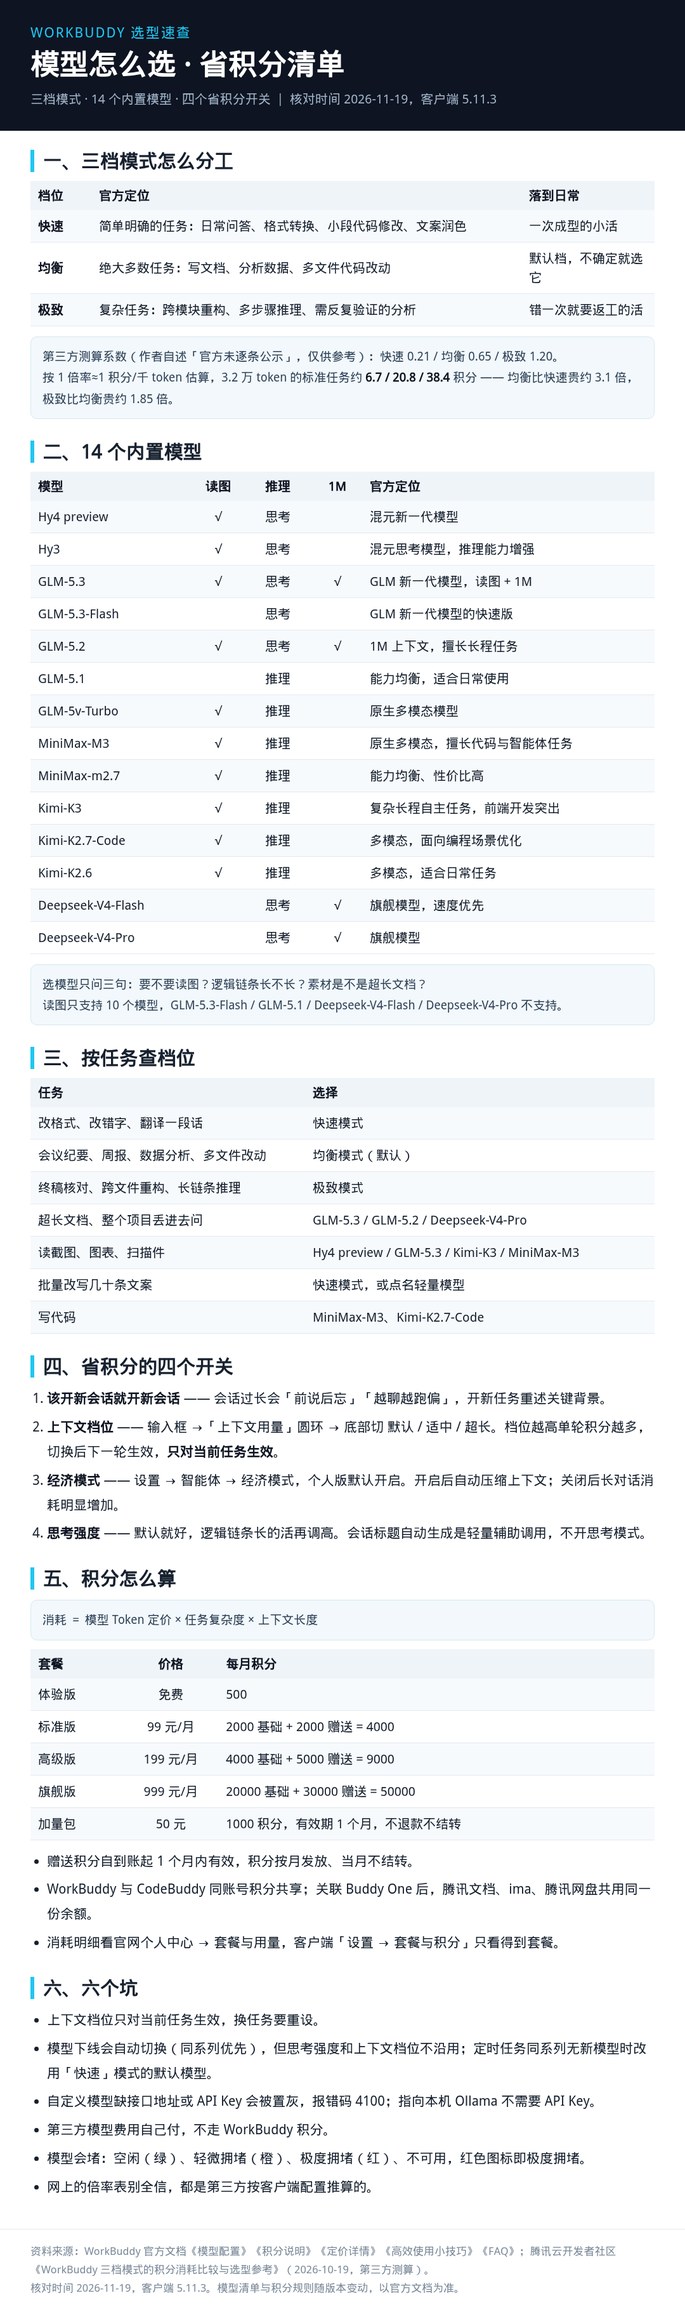
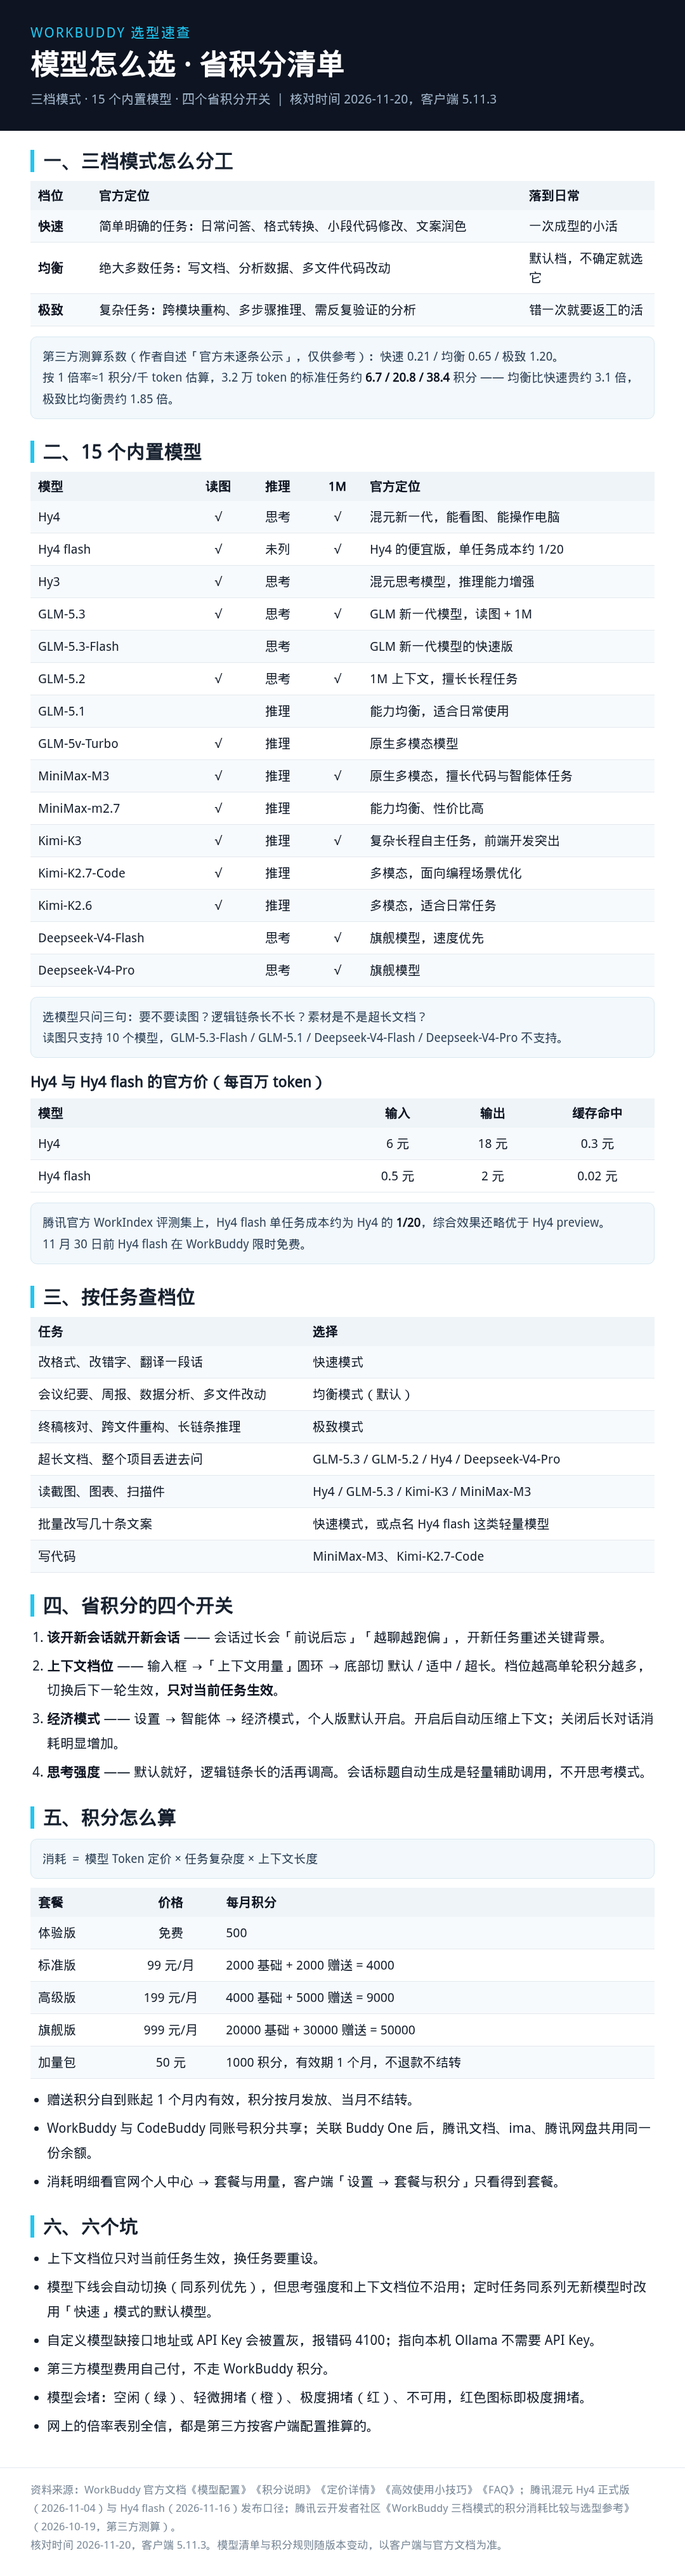
WorkBuddy 选型文章：模型部分跟进最新资料（Hy4 正式版、Hy4 flash、各家评测）

Changed region(s): [[0.0, 0.0, 1.0, 0.9986], [0.7639, 0.9674, 0.9167, 0.9986], [0.825, 0.4057, 0.8861, 0.4369]]

diff --git a/drafts/workbuddy-model-selection/sources.md b/drafts/workbuddy-model-selection/sources.md
@@ -1,6 +1,6 @@
 # 素材来源清单 · WorkBuddy 模型选择（草稿目录 `drafts/workbuddy-model-selection/`）
 
-- 抓取日期：2026-11-19
+- 抓取日期：2026-11-19（首轮）／2026-11-20（复核，模型部分更新）
 - 对应客户端版本：WorkBuddy 5.11.3（2026-11-15 发布，见官方更新日志）
 - 分级口径：**A** 官方文档（可作事实引用）｜**B** 官方产品界面截图（可作配图，注明出处）｜**C** 第三方测算（只能标为第三方观点，不能当官方数据）
 - 使用纪律：所有数字必须能落到本文档某一行；官方未公示的数据（如各模型倍率）一律标注「第三方测算，官方未逐条公示」。
@@ -20,6 +20,7 @@
   - 经济模式：原模型面板里的「Max 模式」开关已移到 **设置 → 智能体 → 经济模式**（个人版默认开启）。开启后系统在合适时机自动压缩上下文、降低积分消耗；关闭后全程保留完整上下文，长对话消耗明显增加。
   - 模型下线后的自动切换：优先同系列新模型（如 Kimi-K3 → Kimi 系列对应新模型），没有则用系统默认模型；切到同系列新模型时思考强度与上下文窗口不沿用旧模型；定时任务每次运行前先切换再执行并同步更新任务配置；本地自定义模型不会被自动替换；切换后仍失败则该次按失败处理，不重复执行同一提示词。
   - 内置模型（个人版当前，14 个）：Hy4 preview、Hy3、GLM-5.3、GLM-5.3-Flash、GLM-5.2、GLM-5.1、GLM-5v-Turbo、MiniMax-M3、MiniMax-m2.7、Kimi-K3、Kimi-K2.7-Code、Kimi-K2.6、Deepseek-V4-Flash、Deepseek-V4-Pro。官方标注：GLM-5.3 支持 1M 上下文窗口；DeepSeek V4 系列支持 1M；GLM-5.2 1M 上下文、擅长长程任务；Deepseek-V4-Flash「速度优先」。
+  - **文档滞后（2026-11-20 复核确认）**：文档表里仍写「Hy4 preview」且只有 14 个模型，而客户端里已经是 Hy4 正式版并多出 Hy4 flash（用户 2026-11-20 实机观察）→ 正文必须写「以你客户端里看到的为准」。
   - 自定义模型：配置（含 API Key）只存在本地 `workbuddy/models.json`，不上传云端；接入方式＝提供商接入（腾讯云 Token Plan / Coding Plan / 自定义 API）、本地 Ollama（默认监听 11434，兼容 OpenAI 协议）、自定义；配置不完整的自定义模型在选择器中置灰不可选，报错码 4100；自定义模型产生的费用由用户直接付给第三方。
   - 企业管理员可在后台禁用模型，被禁模型在客户端隐藏或置灰（含 auto）。
 - 原文可直接引用：
@@ -81,6 +82,27 @@
 ### A11 腾讯云 Token Plan（延伸阅读，未抓正文）
 - https://cloud.tencent.com/document/product/1823/130657 —— 面向个人与企业的订阅套餐，兼容混元、MiniMax、Kimi、GLM 等模型；个人版 API Key 获取指引 https://cloud.tencent.com/document/product/1823/130119
 
+### A12 腾讯混元 Hy4 正式版发布口径（2026-11-04）
+- 报道：央广网 https://tech.cnr.cn/techgd/20261104/t20261104_527862108.shtml （页面 GB18030 编码，抓取需 `raw.decode("gb18030")`，正文存 /tmp/wb/docs/hy4_cnr.txt）
+- 关键事实：相比 preview 扩展数据与训练规模，首次引入视觉理解能力、首次支持 Computer Use；WorkBuddy 办公场景评测平均 83.18 分、任务通过率 96.15%、12 个场景里 9 个排在国产模型首位；腾讯金融科技 FiT 专家众测（213 位专家、153 位来自外部机构、七成 5 年以上经验、579 个真实金融任务）综合分 Hy4 3.04、Kimi K3.1 Pro 2.68、GLM-5.3 2.68、DeepSeek-V4.1-Flash-1017 2.97；讯兔 IRAB 较 preview 提升 12.03 个百分点；幻觉率 12.95% → 7.2%，猜测导致的错误率 23.1% → 5.6%；GameDev / GameLogic 较 preview 提升 19.1% / 9.8%；定价不变＝输入 6 元 / 输出 18 元 / 缓存命中 0.3 元每百万 token；Hy3 系列参数 < 300B，Hy4 系列 770B；发布节奏＝先 Preview 再正式版，每两个月一个大版本；官方自认与顶尖闭源模型仍有较大差距。
+- 注意：正文引「9 个排国内第一」在公众号会被红线词「第一」拦下，必须写成「排在国产模型首位」（或「拿下榜首」）。
+
+### A13 腾讯混元 Hy4 flash 发布口径（2026-11-16）
+- 报道：新浪科技 https://finance.sina.com.cn/tob/2026-11-16/doc-iniyxcia5712243.shtml
+- 关键事实：总参 224B（含 64B Engram）、激活 12B，多模态 + 1M 上下文；价格输入 0.5 元 / 输出 2 元 / 缓存命中 0.02 元每百万 token；KV cache 约为 Hy3 的 1/24、Hy4 的 1/6；解码速度 > 150 tps；自蒸馏 Hy4 + RL 让端到端输出长度降 50%；内部评测集 WorkIndex（PPT 制作与修改、文档编辑、表格修复、音视频处理、视觉理解）上单任务成本约为 Hy4 preview 的 1/13、Hy4 的 1/20、DeepSeek-V4.1-Flash-1027 的 1/8，综合效果略优于 Hy4 preview；已上线 TokenHub / WorkBuddy / 元宝 / 企业微信 / QQ / ima / Marvis；11 月 30 日前 WorkBuddy 限时免费，TokenHub API 到 2026-12-31 五折。
+
+### A14 智谱 GLM-5.3 发布口径（2026-08-14）
+- 报道：快科技 http://m.mydrivers.com/newsview/1143745.html
+- 关键事实：与 GLM-5.2 同基座、7400 多亿参数（未到万亿）；Terminal-Bench 3.0 由 4.6 升至 28.3；DeepSWE v1.1 由 46.2 升至 66.9；Agents' Last Exam 由 23.8 升至 28.5；GDPval-AA v2 得分 1769；自研 Z.ai Code Bench 高档准确率 31.4%，高于 Claude Opus 4.8 最高档的 29.5%，且每任务平均输出约 5 万 token，Opus 4.8 约 12 万。
+
+### A15 MiniMax M3 官方模型页
+- https://www.minimax.cn/models/text/m3
+- 关键事实：MSA 稀疏注意力架构，API 最高 1M 上下文（保障至少 512K 可用），原生多模态；BrowseComp 智能体评测 83.5 分，Opus 4.7 为 79.3；官方案例：连续 12 小时自主复现一篇 ICLR 杰出论文（18 次 commit、23 张图表）；24 小时优化 CUDA 算子，147 次迭代，硬件峰值利用率 7.6% → 71.3%，9.4 倍加速；PostTrainBench 37.1（第三，次于 Opus 4.7 的 42.4、GPT-5.5 的 39.3）。
+
+### A16 DeepSeek V4 官方公告（2026-04-24）
+- https://api-docs.deepseek.com/zh-cn/news/news260424.md
+- 关键事实：分 Pro 与 Flash，均 1M 上下文，API 名 deepseek-v4-pro / deepseek-v4-flash；Pro 在 Agentic Coding 达开源最佳，内部实测体验优于 Sonnet 4.5，交付质量接近 Opus 4.6 非思考模式但仍有差距；世界知识大幅领先开源、仅稍逊 Gemini-Pro-3.1；Flash 知识稍逊但推理接近，简单 Agent 任务与 Pro 旗鼓相当；DSA 稀疏注意力 + token 维度压缩；支持 reasoning_effort（high/max）；旧模型名 deepseek-chat / deepseek-reasoner 于 2026-07-24 停用；权重与技术报告已开源。
+
 ---
 
 ## B 级 · 官方界面截图（配图候选，已下载到 `assets/`）
@@ -118,6 +140,11 @@
   - 结论：默认停均衡；倍率 0.20 以下的模型直选更省；省钱优先级＝新任务开新窗口 ＞ 保持 Max 模式关闭（对应现在的经济模式）＞ 压缩上下文 ＞ 最后才降档。
 - **风险提示**：文中模型清单是 2026-10-19 的快照（含 Space-Bunny、GLM-4.6、GLM-4.6V、DeepSeek-V4.1-Flash、MiniMax-M2.5、Kimi-K2.5、GLM-5.0-Turbo、Kimi-K2.8-Preview 等），与 A1 当前官方表不一致，正文若引用需说明时间差。
 - **版权提示**：该文末尾有「原创声明：未经许可，不得转载」，因此**只引用其中的数据与结论并注明出处，不下载、不转载它的配图**。
+
+### C2 钛媒体对 Kimi K3 的实测（媒体报道实测，属第三方口径）
+- URL：https://caifuhao.eastmoney.com/news/20260718153736384247060 （2026-07-18）
+- 关键事实：Kimi K3 为 2.8 万亿参数、原生视觉、1M 上下文（会员档位限制：49 元档不支持、99 元档 256K、199 元档起完整 1M）；Arena Code Arena 盲测 1679 分居首，Fable 5 1631、GPT-5.6 Sol 1618；API 输入 20 元 / 输出 100 元每百万 token（较 K2.6 输入涨 3 倍多、输出近 4 倍）；官方承认三个局限；实测评价：3D 与视觉生成最突出、前端 UI 设计水准接近 Fable 5、编码强但未超最强闭源、速度是最大短板，同一场景生成时间约为 GPT-5.6 Sol 的 2–3 倍，剪一个 30 秒宣传片花了近两小时；官方称全球首个开源 3 万亿级模型。
+- **引用要求**：性能评测数是厂商或媒体口径，正文写「某家评测里…」「媒体实测…」并标时间，不要写成 WorkBuddy 内的实测结论；红线下「排第一」要改写为「拿下榜首」。
 
 ---
 

diff --git a/drafts/workbuddy-model-selection/checklist.md b/drafts/workbuddy-model-selection/checklist.md
@@ -1,7 +1,7 @@
 # WorkBuddy 选型速查清单
 
 > 对应正文：WorkBuddy 模型怎么选？来看这一份省积分指南
-> 资料核对时间：2026 年 11 月 19 日，对应客户端 5.11.3；以官方文档为准。
+> 资料核对时间：2026 年 11 月 20 日，对应客户端 5.11.3；以官方文档为准。
 
 ## 一、三档模式
 
@@ -13,26 +13,36 @@
 
 第三方测算系数（作者自述「官方未逐条公示」，仅作参考）：快速 0.21 / 均衡 0.65 / 极致 1.20；按 1 倍率≈1 积分/千 token 估算，3.2 万 token 的标准任务约 6.7 / 20.8 / 38.4 积分 —— 均衡比快速贵约 3.1 倍，极致比均衡贵约 1.85 倍。
 
-## 二、14 个内置模型
+## 二、15 个内置模型
 
 | 模型 | 图片输入 | 推理标记 | 1M 上下文 | 官方定位 |
 | --- | --- | --- | --- | --- |
-| Hy4 preview | √ | 思考模式 | | 混元新一代模型 |
+| Hy4 | √ | 思考模式 | √ | 混元新一代，能看图、能操作电脑 |
+| Hy4 flash | √ | 官方文档未列 | √ | Hy4 的便宜版，单任务成本约 1/20 |
 | Hy3 | √ | 思考模式 | | 混元思考模型，增强的推理能力 |
 | GLM-5.3 | √ | 思考模式 | √ | GLM 新一代模型 |
 | GLM-5.3-Flash | | 思考模式 | | GLM 新一代模型的快速版本 |
 | GLM-5.2 | √ | 思考模式 | √ | 1M 上下文，擅长长程任务 |
 | GLM-5.1 | | 推理模型 | | 能力均衡，适合日常使用 |
 | GLM-5v-Turbo | √ | 推理模型 | | 原生多模态模型 |
-| MiniMax-M3 | √ | 推理模型 | | 原生多模态，擅长代码与智能体任务 |
+| MiniMax-M3 | √ | 推理模型 | √ | 原生多模态，擅长代码与智能体任务 |
 | MiniMax-m2.7 | √ | 推理模型 | | 能力均衡、性价比高 |
-| Kimi-K3 | √ | 推理模型 | | 复杂长程自主任务，前端开发突出 |
+| Kimi-K3 | √ | 推理模型 | √ | 复杂长程自主任务，前端开发突出 |
 | Kimi-K2.7-Code | √ | 推理模型 | | 多模态，面向编程场景优化 |
 | Kimi-K2.6 | √ | 推理模型 | | 多模态，适合日常任务 |
 | Deepseek-V4-Flash | | 思考模式 | √ | 旗舰模型，速度优先 |
 | Deepseek-V4-Pro | | 思考模式 | √ | 旗舰模型 |
 
 三个筛模型的提问：要不要读图？逻辑链条长不长？素材是不是超长文档？
+
+Hy4 正式版（2026-11-04）与 Hy4 flash（2026-11-16）的官方价（每百万 token）：
+
+| 模型 | 输入 | 输出 | 缓存命中 |
+| --- | --- | --- | --- |
+| Hy4 | 6 元 | 18 元 | 0.3 元 |
+| Hy4 flash | 0.5 元 | 2 元 | 0.02 元 |
+
+腾讯官方 WorkIndex 评测集上，Hy4 flash 单任务成本约为 Hy4 的 1/20，综合效果还略优于 Hy4 preview。11 月 30 日前 Hy4 flash 在 WorkBuddy 限时免费。
 
 ## 三、按任务查档位
 
@@ -41,9 +51,9 @@
 | 改格式、改错字、翻译一段话 | 快速模式 |
 | 会议纪要、周报、数据分析、多文件改动 | 均衡模式（默认） |
 | 终稿核对、跨文件重构、长链条推理 | 极致模式 |
-| 超长文档 / 整个项目丢进去问 | GLM-5.3、GLM-5.2、Deepseek-V4-Pro |
-| 读截图、图表、扫描件 | Hy4 preview、GLM-5.3、Kimi-K3、MiniMax-M3（避开 DeepSeek V4 系列与 GLM-5.3-Flash） |
-| 批量改写几十条文案 | 快速模式，或点名轻量模型 |
+| 超长文档 / 整个项目丢进去问 | GLM-5.3、GLM-5.2、Hy4、Deepseek-V4-Pro |
+| 读截图、图表、扫描件 | Hy4、GLM-5.3、Kimi-K3、MiniMax-M3（避开 DeepSeek V4 系列与 GLM-5.3-Flash） |
+| 批量改写几十条文案 | 快速模式，或点名 Hy4 flash 这类轻量模型 |
 | 写代码 | MiniMax-M3、Kimi-K2.7-Code |
 
 读不了图片/PDF/Excel/Word，先换模型：官方 FAQ 常见的第一个原因就是「当前模型不支持对应文件类型」。
@@ -82,4 +92,4 @@
 
 ---
 
-资料来源：WorkBuddy 官方文档《模型配置》《积分说明》《定价详情》《高效使用小技巧》《FAQ》；腾讯云开发者社区《WorkBuddy 三档模式的积分消耗比较与选型参考》（2026-10-19，第三方测算）。核对时间 2026-11-19，客户端 5.11.3，模型清单与积分规则随版本变动，以官方文档为准。
+资料来源：WorkBuddy 官方文档《模型配置》《积分说明》《定价详情》《高效使用小技巧》《FAQ》；腾讯混元 Hy4 正式版（2026-11-04）与 Hy4 flash（2026-11-16）发布口径；腾讯云开发者社区《WorkBuddy 三档模式的积分消耗比较与选型参考》（2026-10-19，第三方测算）。核对时间 2026-11-20，客户端 5.11.3，模型清单与积分规则随版本变动，以客户端与官方文档为准。
